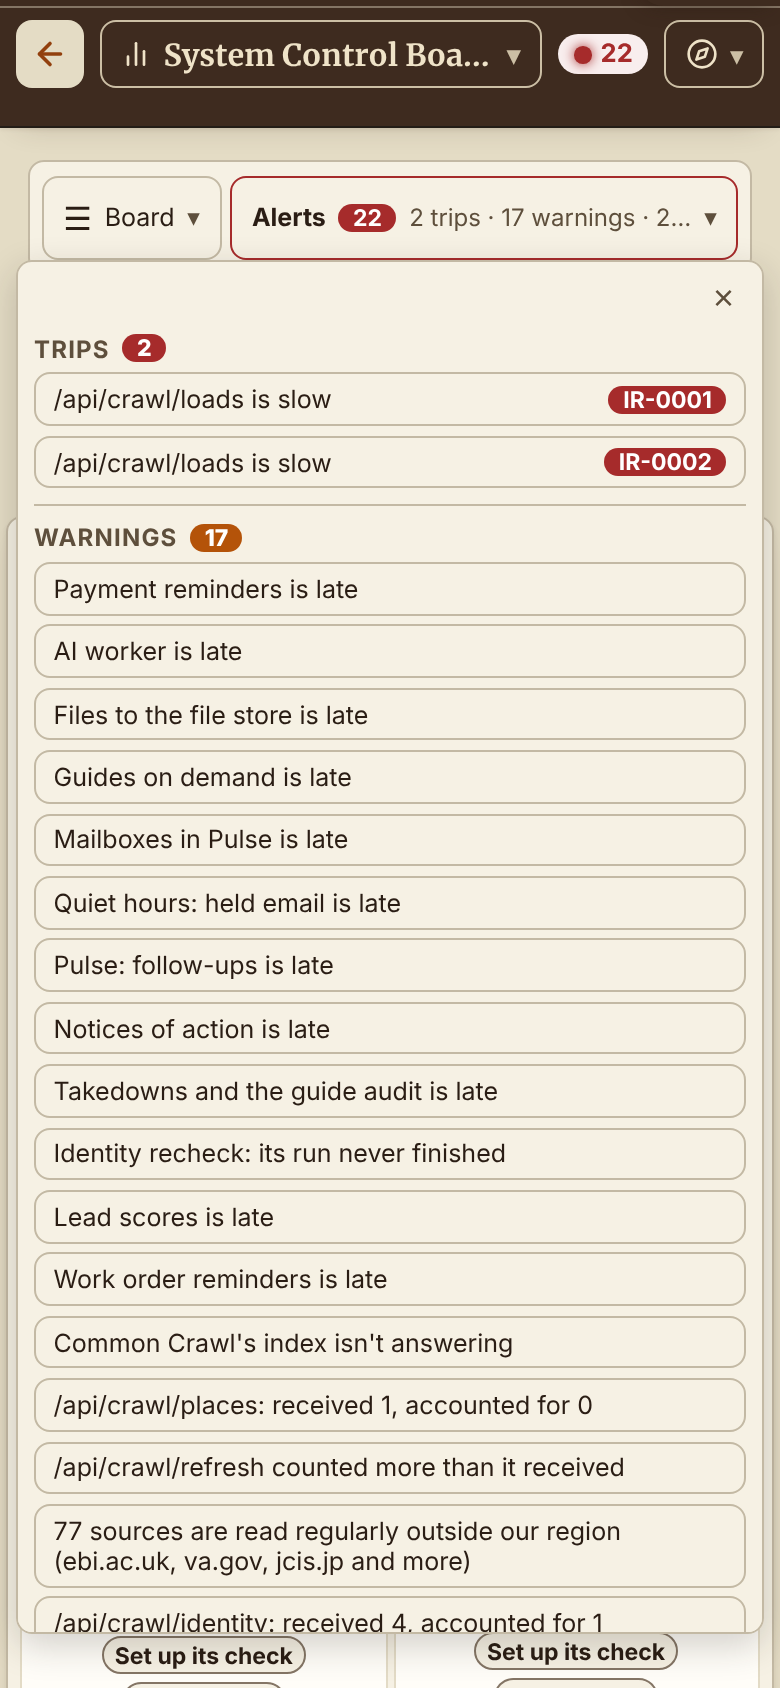
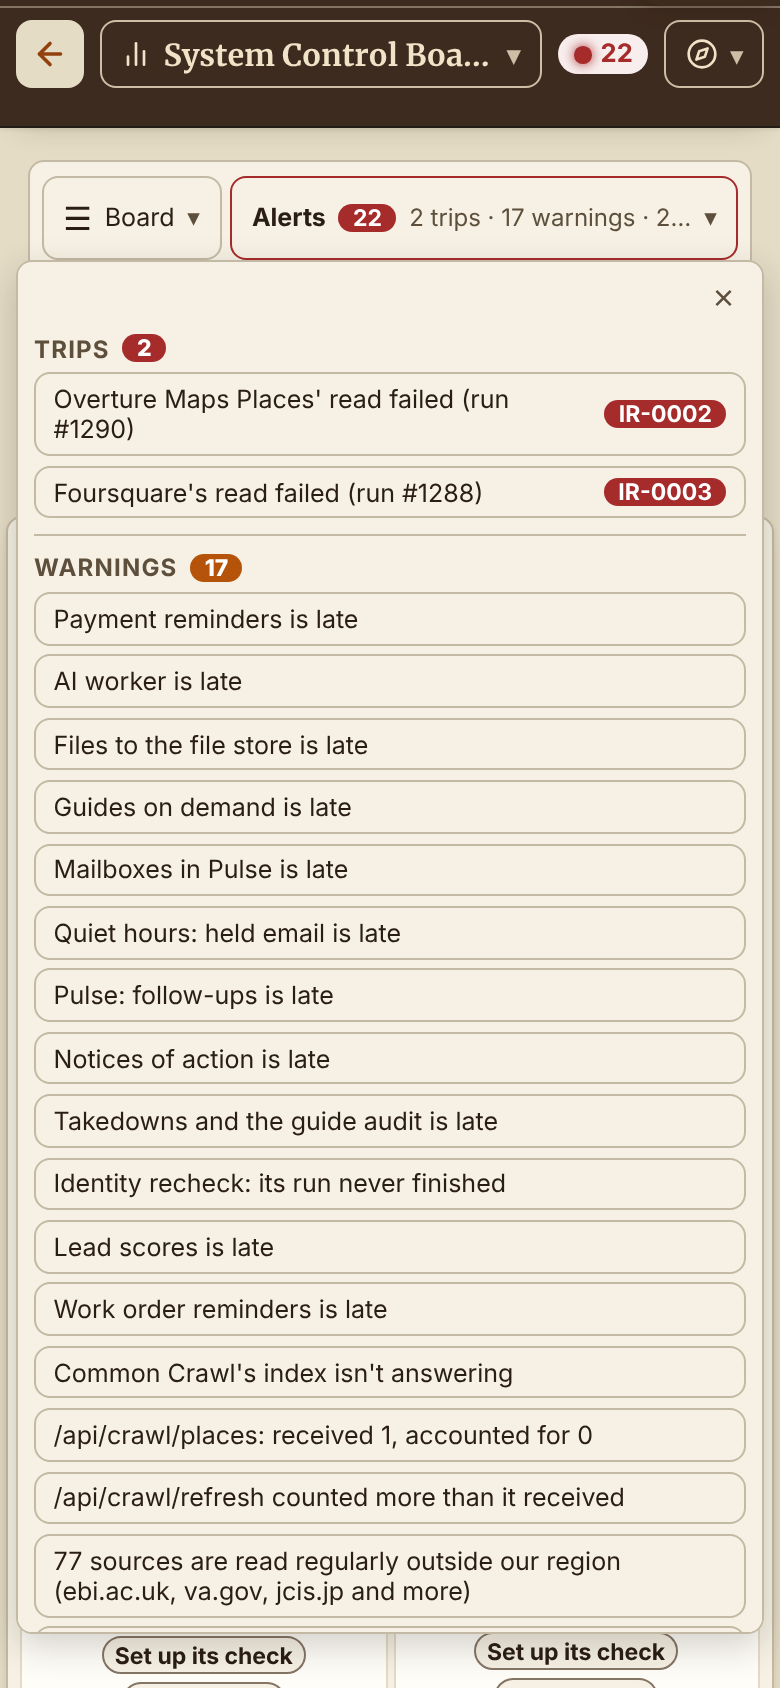
board-phone: Alerts items say their thread's title, as their cards (0176 §2)
Claude-Session: https://claude.ai/code/session_01CXLi5gqPa5AQKoZXC7gZxx

Changed region(s): [[0.0308, 0.2156, 0.9538, 0.9858]]

diff --git a/handoffs/board-phone/build/app/admin/control-console.php b/handoffs/board-phone/build/app/admin/control-console.php
@@ -799,8 +799,11 @@ function tv_cb_qbar(PDO $pdo, array $open, array $names, array $core, string $st
 {
     $e = 'tv_w_e';
     $part = function (array $a) use ($pdo, $names): array { $p = (string) $a['proc']; return [$names[$p] ?? ControlAlarms::partName($pdo, $p), '/admin/config/control/' . str_replace(':', '-', $p)]; };
-    $item = function (array $a, string $tone, string $b) use ($e, $part): string { [$nm, $u] = $part($a);
-        return '<a class="cb-qj ' . $tone . '" href="' . $e($u) . '" data-peek-frame="' . $e($nm) . '"><span>' . $e(rtrim((string) $a['title'], '. ')) . '</span>' . ($b !== '' ? '<b>' . $e($b) . '</b>' : '') . '</a>'; };
+    // each item says its thread's title, the one its card and Pulse show (decisions/0176 §2: one title per thread on every
+    // surface; the Design reviewer, 2026-11-24: Alerts said the stored title, the card "Overture Maps Places' read failed")
+    $title = function (array $a) use ($pdo): string { try { $t = (string) (ControlAlarms::facts($pdo, $a)['title'] ?? ''); if ($t !== '') return $t; } catch (Throwable $x) {} return (string) $a['title']; };
+    $item = function (array $a, string $tone, string $b) use ($e, $part, $title): string { [$nm, $u] = $part($a);
+        return '<a class="cb-qj ' . $tone . '" href="' . $e($u) . '" data-peek-frame="' . $e($nm) . '"><span>' . $e(rtrim($title($a), '. ')) . '</span>' . ($b !== '' ? '<b>' . $e($b) . '</b>' : '') . '</a>'; };
     $live = tv_cb_live_alarms($open);
     $cap = fn ($a) => str_starts_with((string) $a['akey'], 'ops:cap:'); $pf = fn ($a) => str_starts_with((string) $a['akey'], 'pf:');
     $sync = fn ($a) => str_starts_with((string) $a['akey'], 'ops:watch:');   // Railway and the sync, watched (the mockup's Sync chip, 03 §27)

diff --git a/tools/control-board-tests/board-phone.php b/tools/control-board-tests/board-phone.php
@@ -35,6 +35,10 @@ $seen = (string) (preg_match('~<section class="cb-ag n" aria-label="Seen">.*?</s
 $t('…the seen warning is under Seen, said as not counted', str_contains($seen, 'y (job) is late') && str_contains($seen, 'Not counted') && preg_match('~<b>1</b>~', $seen), mb_substr($seen, 0, 200));
 $warn = (string) (preg_match('~<section class="cb-ag a" aria-label="Warnings">.*?</section>~s', $h, $wx) ? $wx[0] : '');
 $t('…Warnings\' rows carry no "warning" pill (its heading says it)', $warn !== '' && !str_contains($warn, '<b>warning</b>'), mb_substr($warn, 0, 200));
+// an Alerts item says its thread's title, the one its card shows (decisions/0176 §2)
+$trip = null; foreach (ControlAlarms::list($pdo) as $x) if ($x['level'] === 'trip') $trip = $x;
+$ft = (string) ControlAlarms::facts($pdo, $trip)['title'];
+$t('an Alerts item says its thread\'s title, as its card ("' . $ft . '")', $ft !== '' && str_contains($h, '<span>' . htmlspecialchars(rtrim($ft, '. '), ENT_QUOTES) . '</span>'), $ft);
 // W1 waiting for its run (both trips started again): its row says so, never "Tripped: stopped"
 $pdo->exec("UPDATE control_alarms SET resolve_note = 'W1 runs again (Jason, 04:13 UTC).' WHERE akey = 'task:failed:overture_bulk'");
 [$light, $means] = ControlBoard::boardLight($pdo, 'wf:W1', ['light' => 'bad'], ['wf:W1' => true]);
